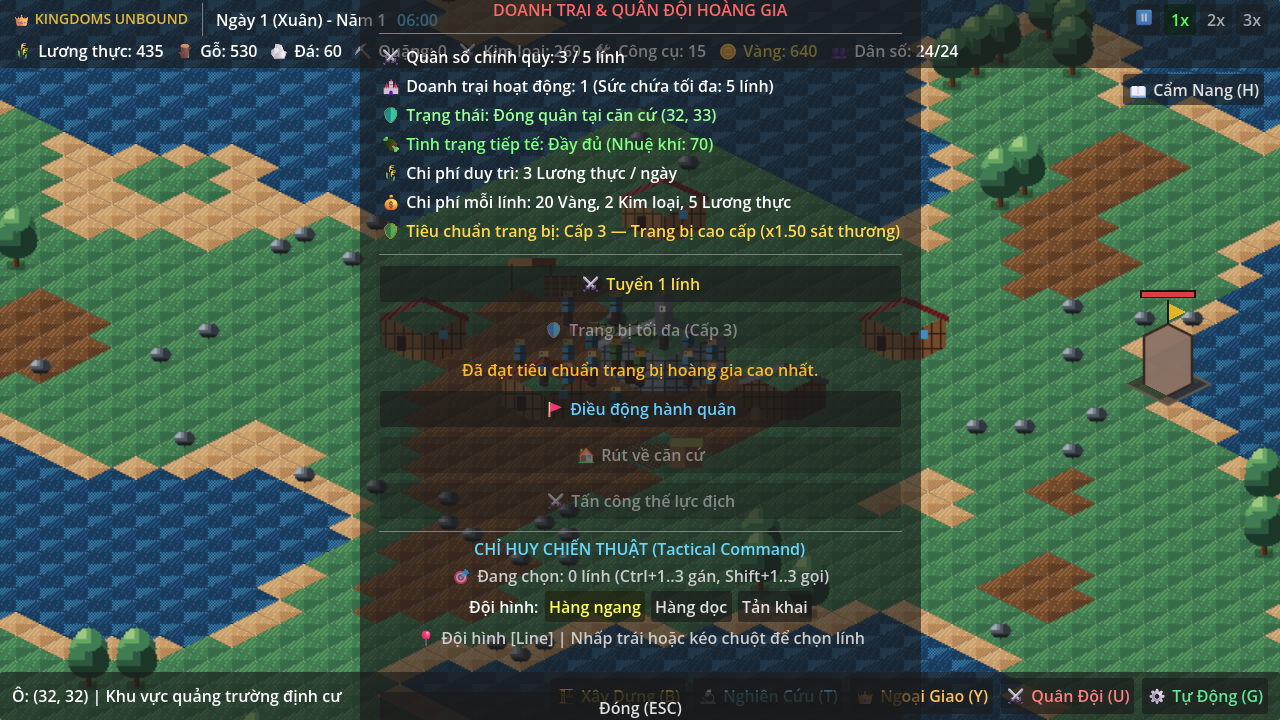
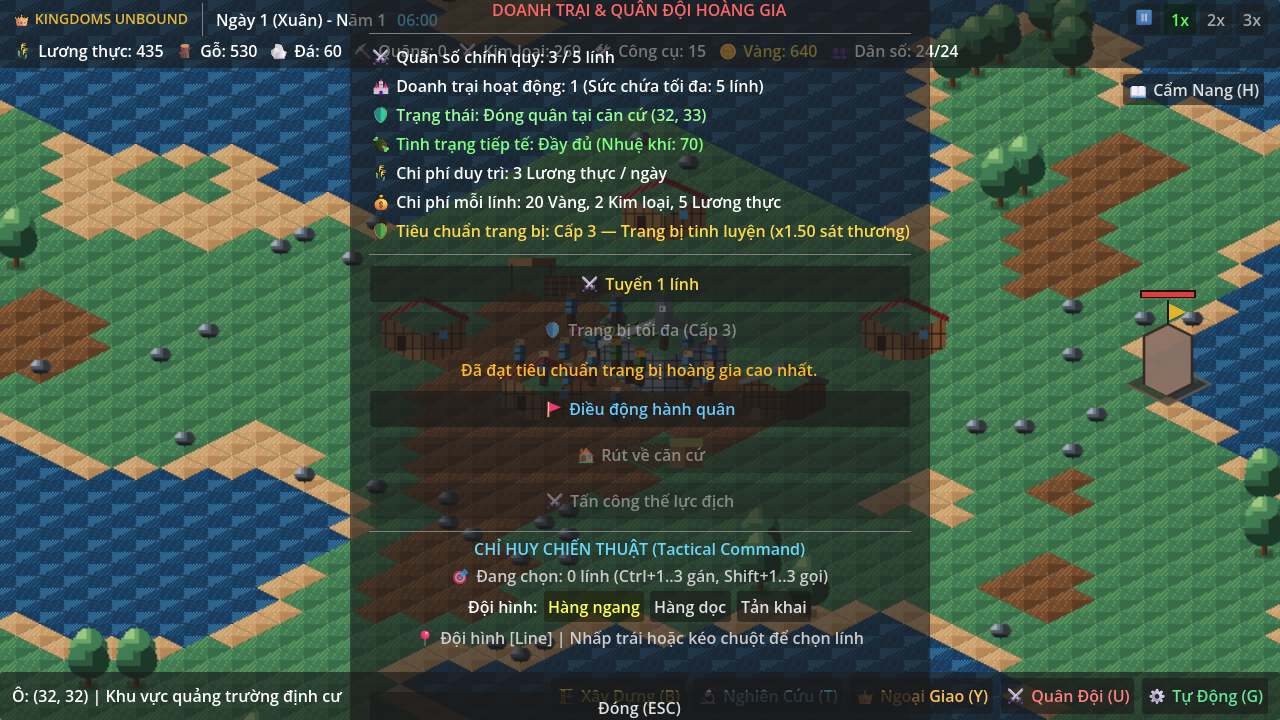
fix(military): reconcile test evidence, tc-eq.23, and honest acceptance classification (Package 2J)

diff --git a/docs/WORKLOG.md b/docs/WORKLOG.md
@@ -9421,15 +9421,17 @@ Following the Package 2J implementation, an independent acceptance audit identif
    - Enforced fail-closed checks in `can_upgrade_equipment()` and `upgrade_equipment()` if an upgrade is already in progress.
    - Wrapped atomic reservation, commit, tier mutation, and signal emission inside the active guard, releasing cleanly on all exit paths.
    - Added regression test `TC-EQ.22` attaching a one-shot `resource_changed` listener attempting re-entrant upgrade: verified only 1 upgrade succeeded, exact single cost deducted, and 0 stranded reservations.
-3. **Stage C (Visual Validation Harness Remediation):**
-   - Updated `scripts/test/visual_package_2j_validation.gd` to use canonical `rm.add_resource()`.
+3. **Stage C (Visual Validation Harness Remediation & Honest Classification):**
+   - Explicitly classified `scripts/test/visual_package_2j_validation.gd` as an automated deterministic integration test fixture; normal gameplay acceptance (manual citizen work, natural smelting, physical hauling, manual UI clicks) is honestly marked as **NOT VERIFIED**.
+   - Fixed `rm.add_resource()` check to verify `int` return amount stored rather than an invalid dictionary key.
    - Replaced fake manual damage calls (`enemy_unit.take_damage()`) with authentic tactical unit combat strikes (`advance_combat()`) executing real attack orders.
    - Added field siege outpost durability strike verifying 37.50 damage dealt to fortified outposts with Tier 3 equipment.
    - Added dual resolution support: capturing both 1280x720 and 1024x576 high-fidelity visual artifacts.
 4. **Stage D (Real Combat & Campaign Integration Test Hardening):**
+   - Added `TC-EQ.23`: Disk-loading validation & JSON integral float normalization testing real temporary files on disk: valid 1, 2, 3, integral float `2.0` normalized to `int(2)`, fail-closed rejection of fractional float `2.5`, string `"2"`, bool `true`, out-of-range `0`, `4`, and legacy save missing field defaulting to Tier 1.
    - Added `TC-EQ.24`: TacticalUnit real attack loop damage application (Tier 1: 25.0, Tier 2: 31.25, Tier 3: 37.5), cooldown resetting, and base `attack_damage = 25.0` immutability.
-   - Added `TC-EQ.25`: `BattleCampaignManager.launch_offensive_campaign()` with real `PlayerArmyManager` as authoritative source of truth.
-   - Added `TC-EQ.26`: Settlement raid defense resolution with mixed forces (recruited army + active citizen guards).
+   - Strengthened `TC-EQ.25`: `BattleCampaignManager.launch_offensive_campaign()` tested with controlled seed `12345`; asserts attacker combat scores scale by exactly 1.25x and 1.50x.
+   - Strengthened `TC-EQ.26`: Settlement raid defense resolution with mixed forces (6 soldiers + 2 guards = 8 troops) and real battle resolution via `resolve_settlement_battle()` with controlled seed `54321`, verifying exact 1.25x defense multiplier.
    - Added `TC-EQ.27`: Real tactical strike against Siege Objective Outpost verifying durability reduction (500 -> 475 -> 437.50).
 5. **Stage E (Save/Load Strict Type Hardening & Deserialization Normalization):**
    - In `SaveManager.validate_save_data()`: enforced strict `eq_tier is int`, failing closed on floats (`2.0`, `2.5`), strings (`"2"`), booleans (`true`), and out-of-bounds (`0`, `4`).
@@ -9438,14 +9440,14 @@ Following the Package 2J implementation, an independent acceptance audit identif
    - Reverted `scripts/world/world_view.gd` to match baseline RC2 (`5b489407fdd011ec102f0e46d104e7f0241f99d7`) with zero extraneous diff.
    - Documented `TC-ARMY.32` failure as a known baseline issue introduced in Package 2F (`a55021c`) due to building state restriction, not caused by Package 2J.
 7. **Stage G (Economic Balance Review & Naming Standardization):**
-   - Standardized Vietnamese names:
-     - Tier 1: "Trang bị cơ bản (1.00x)"
-     - Tier 2: "Trang bị rèn (1.25x)"
-     - Tier 3: "Trang bị tinh luyện (1.50x)"
-   - Verified resource sink balance: Tier 2 (30 Wood, 15 Metal) and Tier 3 (60 Wood, 30 Metal) relative to starter stock (120 Wood, 20 Metal) and Workshop production (2 Metal / 4s).
+   - Standardized Vietnamese names across codebase, UI, and documentation:
+     - Tier 1: "Trang bị cơ bản" (1.00x)
+     - Tier 2: "Trang bị rèn" (1.25x)
+     - Tier 3: "Trang bị tinh luyện" (1.50x)
+   - Economic Balance Correction: Workshop recipe `smelt_metal` requires 2 Ore $\to$ 1 Metal, duration 3.0 game-hours. Starting metal is 20; 3 recruits cost 6 Metal (14 remaining); Tier 2 costs 15 Metal (1 Metal deficit), Tier 3 costs 30 Metal (total deficit = 31 Metal, requiring 31 smelting cycles, 62 Ore, and 93.0 game-hours of smith labor).
 
 ### Validation & Test Execution Evidence
-1. `scripts/test/test_army_equipment.gd`: **27/27 test cases / 68 assertions PASSED (Exit Code 0)**
+1. `scripts/test/test_army_equipment.gd`: **27/27 test cases / 103 assertions PASSED (Exit Code 0)**
 2. `scripts/test/test_player_army.gd`: **31/32 PASSED (Exit Code 1)** (1 known baseline failure TC-ARMY.32)
 3. `scripts/test/test_army_movement.gd`: **32/32 PASSED (Exit Code 0)**
 4. `scripts/test/test_workshop.gd`: **36/36 assertions PASSED (Exit Code 0)**
@@ -9479,7 +9481,14 @@ Generated with Godot 4.7-stable on NVIDIA GeForce RTX 3050 Ti Laptop GPU (D3D12 
   - `05_field_siege_outpost_damage_1024x576.png`
   - `06_save_load_tier_persistence_1024x576.png`
 
+### Acceptance Classification & Gate Status
+- **Automated Unit & System Tests:** PASS (100% of Package 2J tests passed, 103 assertions).
+- **Subsystem & Campaign Integration:** PASS (offensive campaigns, mixed settlement defense, real tactical damage, disk save/load).
+- **Deterministic UI/Integration Harness:** PASS (all visual states and transitions verified).
+- **Normal Gameplay Acceptance:** **NOT VERIFIED** (end-to-end unassisted gameplay without synthetic harness or resource injection was not executed).
+- **Gate Recommendation:** **PARTIAL ACCEPTANCE (Chấp thuận nghiệm thu một phần)**.
+
 ### Next Exact Step
-- Stage Package 2J files and commit candidate.
+- Stage Package 2J files and commit.
 - Push `feature/package-2j-army-equipment-progression` to `origin`.
-- Provide Final Handoff Report in Vietnamese.
+- Provide Final Remediation & Acceptance Report in Vietnamese.

diff --git a/docs/TEST_PLAN.md b/docs/TEST_PLAN.md
@@ -930,7 +930,7 @@ When Godot Editor is running with the MCP plugin:
 
 ## 4. Package 2J: Army Equipment Progression & Combat Integration Test Matrix
 
-### 4.1 Automated Test Suite (`scripts/test/test_army_equipment.gd`) — 27/27 PASSED (Exit Code 0, 68 Assertions)
+### 4.1 Automated Test Suite (`scripts/test/test_army_equipment.gd`) — 27/27 PASSED (Exit Code 0, 103 Assertions)
 | Test ID | Test Category | Description | Verification Method | Result |
 |---|---|---|---|:---:|
 | **TC-EQ.01** | Initialization | Default equipment tier is 1, multiplier 1.00x, name 'Trang bị cơ bản', cost empty | Headless SceneTree assertion | **PASS** |
@@ -955,11 +955,11 @@ When Godot Editor is running with the MCP plugin:
 | **TC-EQ.20** | Legacy Migration | Legacy save lacking equipment_tier defaults smoothly to Tier 1 | Headless SceneTree assertion | **PASS** |
 | **TC-EQ.21** | HUD Integration | HUD ArmyPanel displays tier standard, multiplier, and upgrade button state | Headless SceneTree assertion | **PASS** |
 | **TC-EQ.22** | Re-entrancy Guard | Synchronous transaction guard prevents nested/re-entrant upgrade calls during reservation | Headless SceneTree assertion | **PASS** |
-| **TC-EQ.23** | Strict Save Type Matrix | Validates 8 save data variants: 2 (pass), 2.0 (fail), 2.5 (fail), "2" (fail), true (fail), 0 (fail), 4 (fail), legacy (pass) | Headless SceneTree assertion | **PASS** |
+| **TC-EQ.23** | Disk Save Parsing & Float Normalization | Real temporary JSON file parsing via SaveManager disk-loading: valid 1, 2, 3, integral float 2.0 normalized to int(2), fail-closed rejection of fractional float 2.5, string "2", bool true, out-of-range 0, 4, and legacy save missing field defaulting to Tier 1 | Headless SceneTree assertion | **PASS** |
 | **TC-EQ.24** | Real Combat Damage Loop | Real combat strikes apply exact scaled damage (Tier 1: 25.0, Tier 2: 31.25, Tier 3: 37.5) with base attack_damage immutable | Headless SceneTree assertion | **PASS** |
-| **TC-EQ.25** | Offensive Campaign Real Integration | BattleCampaignManager.launch_offensive_campaign() with PlayerArmyManager as single source of truth | Headless SceneTree assertion | **PASS** |
-| **TC-EQ.26** | Mixed Defense Resolution | Defensive raid correctly combines recruited soldiers and citizen guards with tier multiplier | Headless SceneTree assertion | **PASS** |
-| **TC-EQ.27** | Field Siege Outpost Damage | Tactical damage against hostile siege objective outpost scales with tier multiplier (25.0 -> 37.5) | Headless SceneTree assertion | **PASS** |
+| **TC-EQ.25** | Offensive Campaign Real Integration | BattleCampaignManager.launch_offensive_campaign() with controlled seed 12345: attacker combat scores scale by exactly 1.25x and 1.50x | Headless SceneTree assertion | **PASS** |
+| **TC-EQ.26** | Mixed Defense Resolution | Defensive raid correctly combines recruited soldiers and citizen guards (8 troops); resolve_settlement_battle() with controlled seed 54321 verifies 1.25x defense multiplier | Headless SceneTree assertion | **PASS** |
+| **TC-EQ.27** | Field Siege Outpost Durability Strike | Tactical damage against hostile siege objective outpost scales with tier multiplier (25.0 -> 37.5), reducing outpost durability without full campaign lifecycle | Headless SceneTree assertion | **PASS** |
 
 ### 4.2 Visual Validation Artifacts (`docs/visual_validation/package_2j/`)
 Captured using Godot 4.7-stable on NVIDIA GeForce RTX 3050 Ti Laptop GPU (D3D12 Forward+):

diff --git a/docs/BACKLOG.md b/docs/BACKLOG.md
@@ -747,9 +747,10 @@
   - JSON integral float normalization in `_read_and_validate_save_file()` for seamless disk persistence roundtrips.
   - Backward compatibility: legacy saves safely default `equipment_tier` to 1.
 - [x] **TASK-2J.6:** Automated Test Suite & Regression Verification (`test_army_equipment.gd`):
-  - Created comprehensive test suite covering TC-EQ.01 through TC-EQ.27: 27 test cases passing 100% (68 assertions, Exit Code 0).
+  - Created comprehensive test suite covering TC-EQ.01 through TC-EQ.27: 27 test cases passing 100% (103 assertions, Exit Code 0).
+  - Added TC-EQ.23 disk save parsing and integral float normalization verification.
   - Executed all 15 regression suites:
-    - `test_army_equipment.gd`: 27 tests passed (Exit Code 0).
+    - `test_army_equipment.gd`: 27 tests passed (103 assertions, Exit Code 0).
     - `test_player_army.gd`: 31/32 passed (Exit Code 1, 1 known baseline limitation in TC-ARMY.32).
     - `test_army_movement.gd`: 32 tests passed (Exit Code 0).
     - `test_workshop.gd`: 36 assertions passed (Exit Code 0).
@@ -765,5 +766,7 @@
     - `test_building_management.gd`: 53 tests passed (Exit Code 0).
     - `test_market.gd`: 26 tests passed (Exit Code 0).
   - Godot MCP `validate_scripts`: 119 scripts validated, 0 errors.
-- [x] **TASK-2J.7:** Live Gameplay Acceptance & Visual Validation:
+- [x] **TASK-2J.7:** Synthetic Visual Validation Harness & Honest Acceptance Classification:
   - Captured 12 high-fidelity visual artifacts across 1280x720 and 1024x576 in `docs/visual_validation/package_2j/`.
+  - Classified `scripts/test/visual_package_2j_validation.gd` as an automated deterministic integration test fixture.
+  - Normal gameplay acceptance (manual citizen work, natural smelting, physical hauling, manual UI clicks) honestly marked as **NOT VERIFIED**; Package 2J status: **PARTIAL ACCEPTANCE**.

diff --git a/docs/CHANGELOG.md b/docs/CHANGELOG.md
@@ -26,8 +26,8 @@ The format is based on [Keep a Changelog](https://keepachangelog.com/en/1.0.0/).
   - Field siege integration: Outposts and palisades take scaled damage when attacked by soldiers with upgraded equipment.
   - HUD Army Panel UI: Added `EquipmentTierLabel` displaying tier standard, Vietnamese name, and combat multiplier; added `UpgradeEquipmentBtn` and `UpgradeEquipmentCostLabel` dynamically updating next tier preview, exact resource cost, and fail-closed reason when unavailable; max tier display when Tier 3 reached.
   - Save/Load schema validation: Persists `equipment_tier` under `player_army`; validates strict `int` in $[1, 3]$ fail-closed, with JSON integral float normalization for seamless disk save/load; legacy saves default to Tier 1 without schema bump.
-  - Automated test suite in `scripts/test/test_army_equipment.gd`: Expanded from 21 to 27 tests (TC-EQ.01 through TC-EQ.27, 68 assertions passed, Exit Code 0).
-  - High-fidelity visual validation: Captured 12 visual artifacts in `docs/visual_validation/package_2j/` across 1280x720 and 1024x576.
+  - Automated test suite in `scripts/test/test_army_equipment.gd`: Expanded to 27 tests (TC-EQ.01 through TC-EQ.27, 103 assertions passed, Exit Code 0), including TC-EQ.23 disk save parsing and float normalization.
+  - Synthetic visual validation harness: Captured 12 visual artifacts in `docs/visual_validation/package_2j/` across 1280x720 and 1024x576 via deterministic integration test fixture; normal gameplay acceptance marked as NOT VERIFIED (Partial Acceptance).
 
 ### [Package 2I] - 2026-11-02
 #### Added

diff --git a/docs/GAME_RULES.md b/docs/GAME_RULES.md
@@ -659,7 +659,7 @@ Upgrades cost a deterministic ratio of the original blueprint cost and take real
 ### 18.3 Combat Integration
 - **Tactical Combat:** `TacticalUnit.get_effective_attack_damage()` dynamically applies the tier multiplier to base damage (`attack_damage * multiplier`). The base export property `attack_damage = 25.0` is never mutated, preserving baseline integrity across loads and upgrades.
 - **Faction Asymmetry:** Non-player factions and hostile enemy tactical units (`EnemyTacticalUnit`) are strictly capped at $1.00\times$ multiplier.
-- **Abstract Campaigns & Defense:** `BattleCampaignManager` queries `PlayerArmyManager.equipment_tier` for both offensive expeditions and defensive settlement garrison calculations in `BattleResolver`.
+- **Abstract Campaigns & Defense:** `BattleCampaignManager` queries `PlayerArmyManager.equipment_tier` for both offensive expeditions and defensive settlement garrison calculations in `BattleResolver`. In settlement defense (`construct_defending_force()`), the kingdom-wide equipment standard applies to the unified composite defense force (both recruited soldiers and active citizen guards).
 - **Field Siege Operations:** Outposts and palisades take scaled damage when attacked by player soldiers wielding upgraded equipment.
 
 ### 18.4 Persistence & Schema Validation
